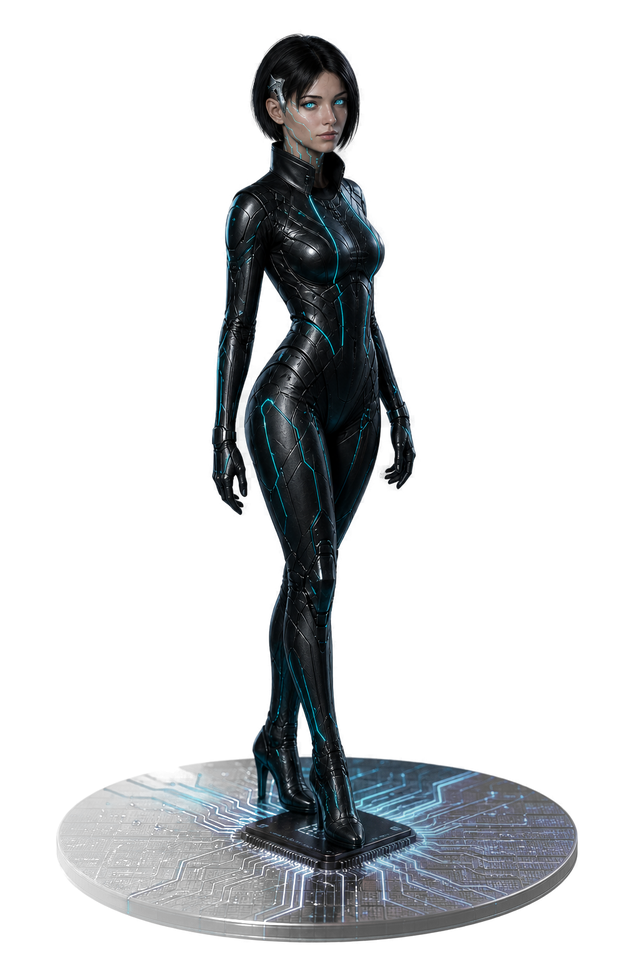
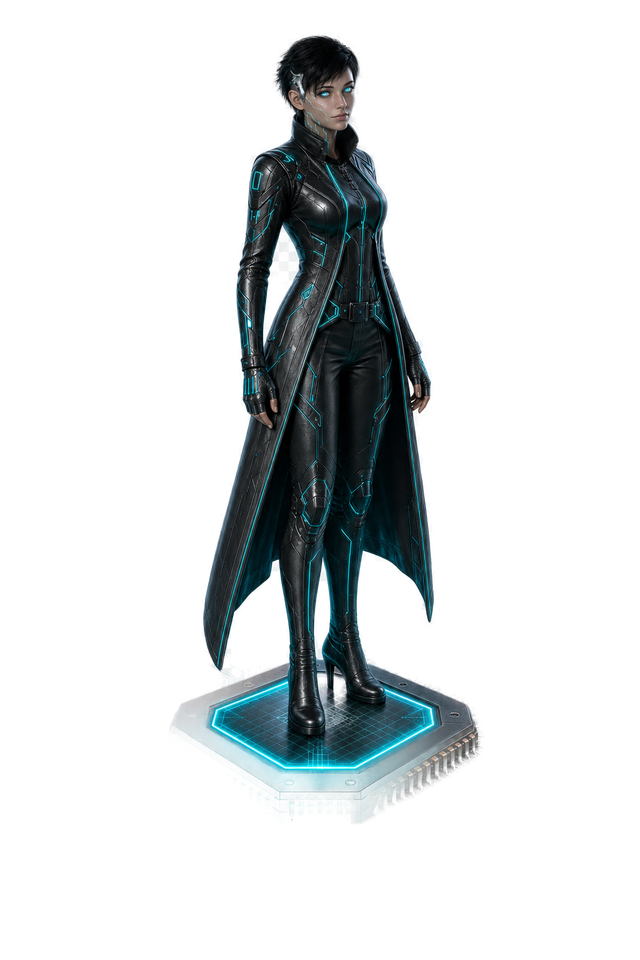
feat(aimon): clickable Gera figure with 4C chip, no button
Remove the overview AI button; the full-body image opens the assistant.
Refresh the cutout using the hexagonal chip style from variant 4C.

Changed region(s): [[0.0938, 0.0312, 0.9062, 1.0]]

diff --git a/aimon/dashboard/index.html b/aimon/dashboard/index.html
@@ -6,7 +6,7 @@
   <meta name="theme-color" content="#FAF8F5">
   <title>AIMon — AI-мониторинг</title>
   <meta name="description" content="AIMon — мониторинг инфраструктуры на базе Checkmk с AI-ассистентом">
-  <link rel="stylesheet" href="styles.css?v=gera6">
+  <link rel="stylesheet" href="styles.css?v=gera7">
 </head>
 <body>
   <svg class="sprite" aria-hidden="true">
@@ -147,14 +147,21 @@
               </div>
             </section>
 
-            <section class="card ai-card">
-              <div class="gera-overview" data-goto="assistant" role="button" tabindex="0" title="AI ассистент">
+            <section class="ai-card" data-cap="ai">
+              <div
+                class="gera-overview"
+                data-goto="assistant"
+                role="button"
+                tabindex="0"
+                aria-label="Открыть AI ассистента"
+                title="AI ассистент"
+              >
                 <picture class="gera-overview-bg">
                   <source srcset="assets/gera-overview.webp" type="image/webp">
                   <img
                     class="gera-overview-img"
                     src="assets/gera-overview.png"
-                    alt="Гера"
+                    alt="Гера — AI ассистент"
                     width="640"
                     height="960"
                     loading="lazy"
@@ -175,7 +182,6 @@
                   </div>
                 </div>
               </div>
-              <button class="btn primary wide" data-goto="assistant">AI ассистент</button>
             </section>
           </div>
         </section>
@@ -513,6 +519,6 @@
     </form>
   </dialog>
 
-  <script src="app.js?v=gera6"></script>
+  <script src="app.js?v=gera7"></script>
 </body>
 </html>

diff --git a/aimon/dashboard/styles.css b/aimon/dashboard/styles.css
@@ -230,7 +230,7 @@ svg { width: 20px; height: 20px; fill: none; stroke: currentColor; stroke-width:
 .ai-card {
   display: flex;
   flex-direction: column;
-  gap: 10px;
+  gap: 0;
   padding: 0;
   overflow: visible;
   background: transparent !important;
@@ -239,17 +239,13 @@ svg { width: 20px; height: 20px; fill: none; stroke: currentColor; stroke-width:
   backdrop-filter: none !important;
   -webkit-backdrop-filter: none !important;
 }
-.ai-card .btn.wide {
-  margin: 0 4px 4px;
-  flex: 0 0 auto;
-}
 
 .gera-overview {
   position: relative;
   flex: 1 1 auto;
   width: 100%;
-  min-height: 420px;
-  height: clamp(420px, 52vh, 560px);
+  min-height: 460px;
+  height: clamp(460px, 58vh, 620px);
   border-radius: 0;
   overflow: visible;
   cursor: pointer;
@@ -276,9 +272,12 @@ svg { width: 20px; height: 20px; fill: none; stroke: currentColor; stroke-width:
   display: block;
   margin: 0 auto;
   filter: drop-shadow(0 18px 28px rgba(45, 52, 54, 0.22));
-  transition: transform .35s ease;
+  transition: transform .35s ease, filter .35s ease;
 }
-.gera-overview:hover .gera-overview-img { transform: translateY(-6px) scale(1.02); }
+.gera-overview:hover .gera-overview-img {
+  transform: translateY(-8px) scale(1.025);
+  filter: drop-shadow(0 24px 34px rgba(61, 90, 128, 0.28));
+}
 .visually-hidden {
   position: absolute !important;
   width: 1px; height: 1px;
